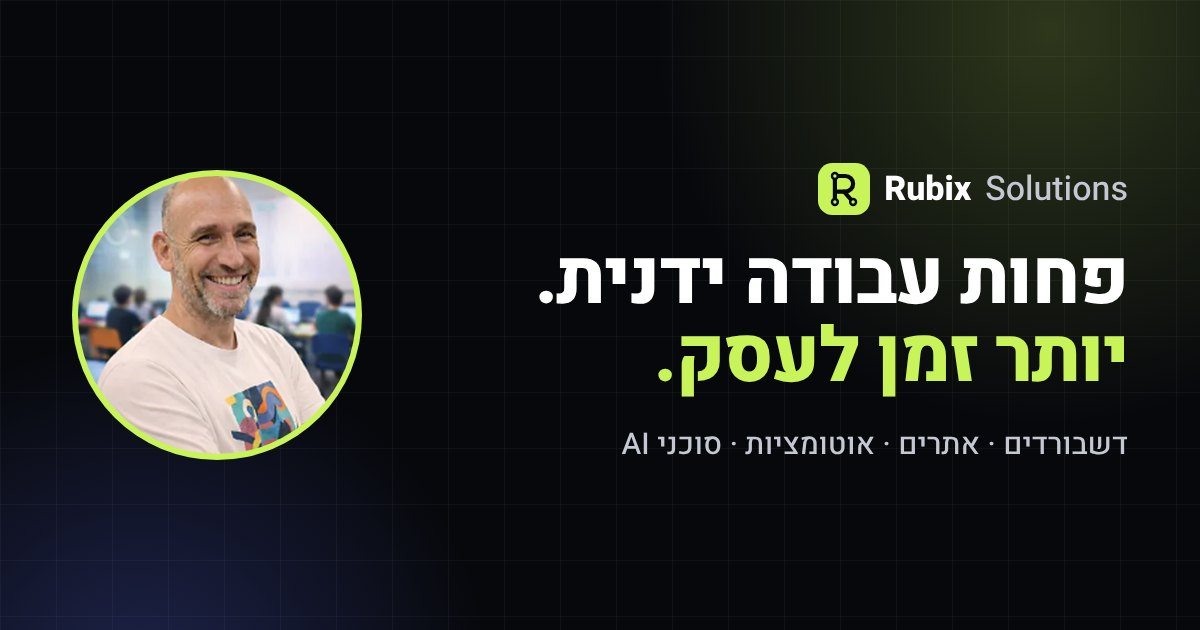
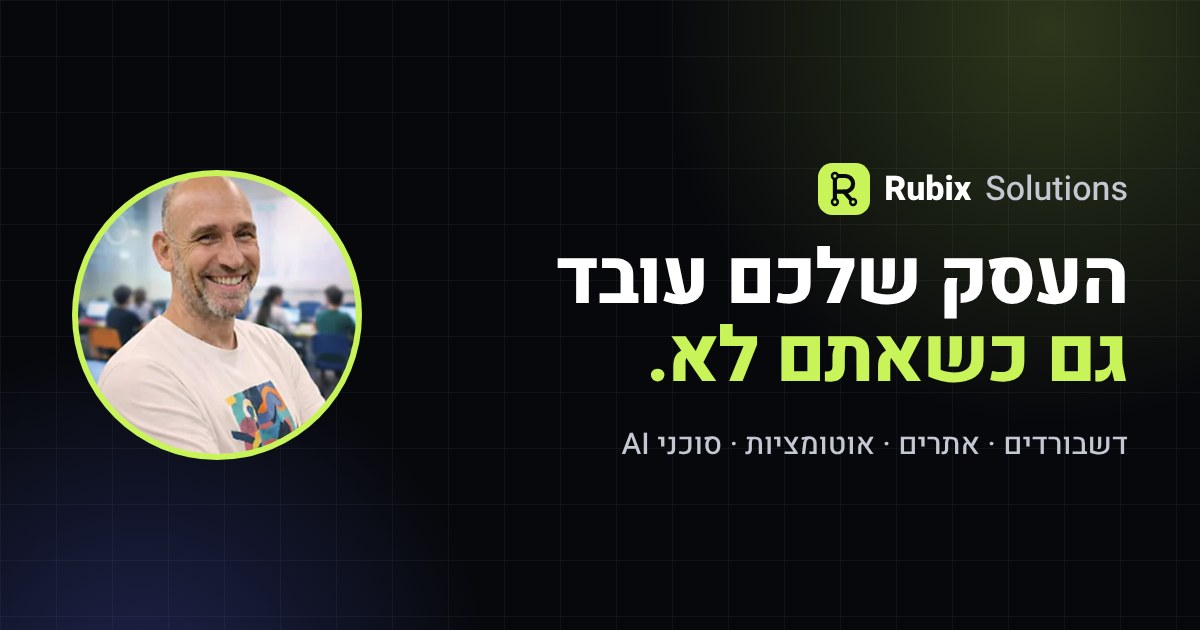
Hero headline: 'העסק שלכם עובד / גם כשאתם לא'
Same headline in the link-preview title, alt text and share image (same style, new text).

Claude-Session: https://claude.ai/code/session_01XFN9JE5FcgPphkA6nFwgkD

Changed region(s): [[0.4317, 0.3921, 0.9558, 0.6333]]

diff --git a/public/v2/index.html b/public/v2/index.html
@@ -10,12 +10,12 @@
 <meta property="og:locale" content="he_IL">
 <meta property="og:site_name" content="Rubix Solutions">
 <meta property="og:url" content="https://rubix-site-two.vercel.app/v2/">
-<meta property="og:title" content="Rubix Solutions | פחות עבודה ידנית, יותר זמן לעסק">
+<meta property="og:title" content="Rubix Solutions | העסק שלכם עובד גם כשאתם לא">
 <meta property="og:description" content="כלים חכמים לעסקים קטנים: דשבורדים, אתרים, אוטומציות וסוכני AI שעושים לבד את העבודה החוזרת. שיחת היכרות חינם.">
 <meta property="og:image" content="https://rubix-site-two.vercel.app/media/og.jpg">
 <meta property="og:image:width" content="1200">
 <meta property="og:image:height" content="630">
-<meta property="og:image:alt" content="Rubix Solutions – פחות עבודה ידנית, יותר זמן לעסק">
+<meta property="og:image:alt" content="Rubix Solutions – העסק שלכם עובד גם כשאתם לא">
 <meta name="twitter:card" content="summary_large_image">
 <meta name="theme-color" content="#050A18">
 <link rel="icon" href="../favicon.svg" type="image/svg+xml">
@@ -394,7 +394,7 @@ a.cta:active,a.ghost:active,a.ghost-strong:active,button.send:active,button.go:a
         <span class="live" style="width:8px;height:8px;border-radius:50%;background:var(--accent)"></span>
         פתוח לפרויקטים חדשים
       </div>
-      <h1 class="rise" style="--d:70ms;font-size:clamp(44px,6.6vw,92px);font-weight:800;line-height:1.04;letter-spacing:-0.025em;color:#FFFFFF">פחות עבודה ידנית<br><span style="color:var(--accent)">יותר זמן לעסק</span></h1>
+      <h1 class="rise" style="--d:70ms;font-size:clamp(44px,6.6vw,92px);font-weight:800;line-height:1.04;letter-spacing:-0.025em;color:#FFFFFF">העסק שלכם עובד<br><span style="color:var(--accent)">גם כשאתם לא</span></h1>
       <div class="rise" style="--d:140ms;font-family:var(--display);font-size:clamp(23px,2.8vw,36px);font-weight:700;line-height:1.35;color:#D2D5DD;min-height:2.7em">
         נעים מאוד, אני רובי. אני בונה לעסקים <span style="color:#FFFFFF;border-bottom:3px solid var(--accent)">{{word}}</span><span class="caret" style="color:var(--accent)">|</span>
       </div>

diff --git a/public/index.html b/public/index.html
@@ -10,12 +10,12 @@
 <meta property="og:locale" content="he_IL">
 <meta property="og:site_name" content="Rubix Solutions">
 <meta property="og:url" content="https://rubix-site-two.vercel.app/">
-<meta property="og:title" content="Rubix Solutions | פחות עבודה ידנית, יותר זמן לעסק">
+<meta property="og:title" content="Rubix Solutions | העסק שלכם עובד גם כשאתם לא">
 <meta property="og:description" content="כלים חכמים לעסקים קטנים: דשבורדים, אתרים, אוטומציות וסוכני AI שעושים לבד את העבודה החוזרת. שיחת היכרות חינם.">
 <meta property="og:image" content="https://rubix-site-two.vercel.app/media/og.jpg">
 <meta property="og:image:width" content="1200">
 <meta property="og:image:height" content="630">
-<meta property="og:image:alt" content="Rubix Solutions – פחות עבודה ידנית, יותר זמן לעסק">
+<meta property="og:image:alt" content="Rubix Solutions – העסק שלכם עובד גם כשאתם לא">
 <meta name="twitter:card" content="summary_large_image">
 <meta name="theme-color" content="#050A18">
 <link rel="icon" href="favicon.svg" type="image/svg+xml">
@@ -394,7 +394,7 @@ a.cta:active,a.ghost:active,a.ghost-strong:active,button.send:active,button.go:a
         <span class="live" style="width:8px;height:8px;border-radius:50%;background:var(--accent)"></span>
         פתוח לפרויקטים חדשים
       </div>
-      <h1 class="rise" style="--d:70ms;font-size:clamp(44px,6.6vw,92px);font-weight:800;line-height:1.04;letter-spacing:-0.025em;color:#FFFFFF">פחות עבודה ידנית<br><span style="color:var(--accent)">יותר זמן לעסק</span></h1>
+      <h1 class="rise" style="--d:70ms;font-size:clamp(44px,6.6vw,92px);font-weight:800;line-height:1.04;letter-spacing:-0.025em;color:#FFFFFF">העסק שלכם עובד<br><span style="color:var(--accent)">גם כשאתם לא</span></h1>
       <div class="rise" style="--d:140ms;font-family:var(--display);font-size:clamp(23px,2.8vw,36px);font-weight:700;line-height:1.35;color:#D2D5DD;min-height:2.7em">
         נעים מאוד, אני רובי. אני בונה לעסקים <span style="color:#FFFFFF;border-bottom:3px solid var(--accent)">{{word}}</span><span class="caret" style="color:var(--accent)">|</span>
       </div>

diff --git a/src/Main.dc.html b/src/Main.dc.html
@@ -378,7 +378,7 @@ a.cta:active,a.ghost:active,a.ghost-strong:active,button.send:active,button.go:a
         <span class="live" style="width:8px;height:8px;border-radius:50%;background:var(--accent)"></span>
         פתוח לפרויקטים חדשים
       </div>
-      <h1 class="rise" style="--d:70ms;font-size:clamp(44px,6.6vw,92px);font-weight:800;line-height:1.04;letter-spacing:-0.025em;color:#FFFFFF">פחות עבודה ידנית<br><span style="color:var(--accent)">יותר זמן לעסק</span></h1>
+      <h1 class="rise" style="--d:70ms;font-size:clamp(44px,6.6vw,92px);font-weight:800;line-height:1.04;letter-spacing:-0.025em;color:#FFFFFF">העסק שלכם עובד<br><span style="color:var(--accent)">גם כשאתם לא</span></h1>
       <div class="rise" style="--d:140ms;font-family:var(--display);font-size:clamp(23px,2.8vw,36px);font-weight:700;line-height:1.35;color:#D2D5DD;min-height:2.7em">
         נעים מאוד, אני רובי. אני בונה לעסקים <span style="color:#FFFFFF;border-bottom:3px solid var(--accent)">{{word}}</span><span class="caret" style="color:var(--accent)">|</span>
       </div>

diff --git a/src/Main_v2.dc.html b/src/Main_v2.dc.html
@@ -378,7 +378,7 @@ a.cta:active,a.ghost:active,a.ghost-strong:active,button.send:active,button.go:a
         <span class="live" style="width:8px;height:8px;border-radius:50%;background:var(--accent)"></span>
         פתוח לפרויקטים חדשים
       </div>
-      <h1 class="rise" style="--d:70ms;font-size:clamp(44px,6.6vw,92px);font-weight:800;line-height:1.04;letter-spacing:-0.025em;color:#FFFFFF">פחות עבודה ידנית<br><span style="color:var(--accent)">יותר זמן לעסק</span></h1>
+      <h1 class="rise" style="--d:70ms;font-size:clamp(44px,6.6vw,92px);font-weight:800;line-height:1.04;letter-spacing:-0.025em;color:#FFFFFF">העסק שלכם עובד<br><span style="color:var(--accent)">גם כשאתם לא</span></h1>
       <div class="rise" style="--d:140ms;font-family:var(--display);font-size:clamp(23px,2.8vw,36px);font-weight:700;line-height:1.35;color:#D2D5DD;min-height:2.7em">
         נעים מאוד, אני רובי. אני בונה לעסקים <span style="color:#FFFFFF;border-bottom:3px solid var(--accent)">{{word}}</span><span class="caret" style="color:var(--accent)">|</span>
       </div>

diff --git a/tools/build.py b/tools/build.py
@@ -152,13 +152,13 @@ title = re.search(r'<title>(.*?)</title>', src).group(1)
 # link previews (WhatsApp, Facebook, LinkedIn). Change SITE when the real domain is connected.
 SITE = 'https://rubix-site-two.vercel.app'
 page_url = SITE + '/' + (os.path.relpath(OUT, ROOT + '/public') + '/' if SUB else '')
-og_title = 'Rubix Solutions | פחות עבודה ידנית, יותר זמן לעסק'
+og_title = 'Rubix Solutions | העסק שלכם עובד גם כשאתם לא'
 og_desc = 'כלים חכמים לעסקים קטנים: דשבורדים, אתרים, אוטומציות וסוכני AI שעושים לבד את העבודה החוזרת. שיחת היכרות חינם.'
 og_tags = (f'<meta property="og:type" content="website">\n<meta property="og:locale" content="he_IL">\n'
            f'<meta property="og:site_name" content="Rubix Solutions">\n<meta property="og:url" content="{page_url}">\n'
            f'<meta property="og:title" content="{og_title}">\n<meta property="og:description" content="{og_desc}">\n'
            f'<meta property="og:image" content="{SITE}/media/og.jpg">\n<meta property="og:image:width" content="1200">\n<meta property="og:image:height" content="630">\n'
-           f'<meta property="og:image:alt" content="Rubix Solutions – פחות עבודה ידנית, יותר זמן לעסק">\n<meta name="twitter:card" content="summary_large_image">')
+           f'<meta property="og:image:alt" content="Rubix Solutions – העסק שלכם עובד גם כשאתם לא">\n<meta name="twitter:card" content="summary_large_image">')
 html = f'''<!doctype html>
 <html lang="he" dir="rtl">
 <head>
